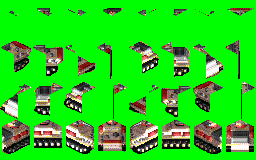
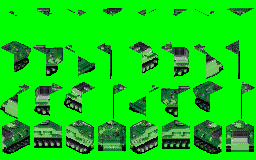
Added tanks to Allied Operations

diff --git a/LICENSE.md b/LICENSE.md
@@ -48,6 +48,7 @@ XCOM: Enemy Unknown and XCOM 2 soundtrack used here belongs to 2K and Firaxis Ga
 * KingMob4313: Plasma ruleset and sprites from Equal Terms, inspiration (laser removed)
 * Memmaker: Mechtoid rulesets
 * Meridian: modding help on the forums, OXCE dev, corpse situation icons (stun, bleed, shock, etc)
+* MigEater: Original Sheridan, Patton, Leopard, Legionnnarie and T-54 sprites from D-Day mod (adapted to OXC format)
 * Mitra Lightbringer: bug hunter
 * MosesManWithAPlan: bug hunter
 * NeoWorm: Sectoid, Muton, Floater paperdolls, Floater spritesheets (adapted and expanded)
@@ -69,6 +70,7 @@ XCOM: Enemy Unknown and XCOM 2 soundtrack used here belongs to 2K and Firaxis Ga
 * Solarius Scorch: RecycledAlienCollection, Alien Armory Expanded, Celebrate Diversity, original XM21, FN FAL, old M16, old M60 sprites (now unused), ruleset reference, Farmer NPCs, knee sections for Mutons and Sectoids sprites, Ethereal, Sectopod, Cyberdisk inventory sprites, Commendation ruleset template
 * Shoes: Commendation sprite template
 * Tal'Raziid: IDT bug hunter
+* Tank Encyclopedia: Tank inventory images (adapted to OXC format)
 * ThatDude: JustRussia AK original weapons (now adapted)
 * The Martian: Cybersphere sprites
 * The Reaver of Darkness: major balance support, LIGHTNIA mapset, plus ideas
